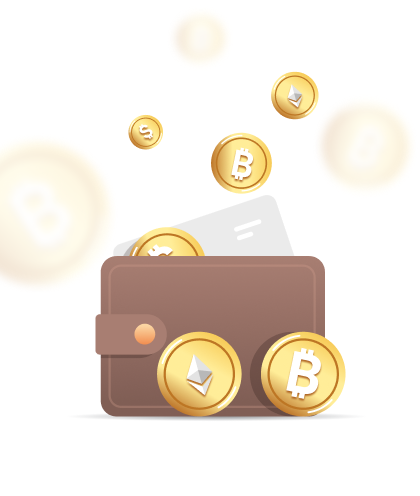
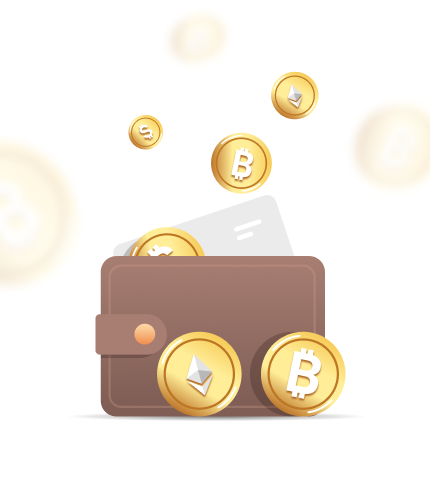
fix ui onboarding

diff --git a/app/components/Views/OnboardingCarousel/index.js b/app/components/Views/OnboardingCarousel/index.js
@@ -42,7 +42,6 @@ const IMAGE_2_RATIO = 222 / 239;
 const IMAGE_1_RATIO = 285 / 203;
 const DEVICE_WIDTH = Dimensions.get('window').width;
 
-
 const IMG_PADDING = Device.isIphoneX() ? 100 : Device.isIphone5S() ? 180 : 220;
 
 const createStyles = (colors) =>
@@ -81,7 +80,8 @@ const createStyles = (colors) =>
 
     // eslint-disable-next-line react-native/no-unused-styles
     carouselImage: {
-      width: DEVICE_WIDTH > 400 ? '85%' : '97%',
+      // width: DEVICE_WIDTH > 400 ? '85%' : '100%',
+      width: '100%',
       height: '75%',
     },
     // eslint-disable-next-line react-native/no-unused-styles
@@ -115,17 +115,17 @@ const createStyles = (colors) =>
       flexDirection: 'row',
       alignSelf: 'center',
       marginBottom: 30,
-      paddingTop: 10
+      paddingTop: 10,
     },
     tab: {
       marginHorizontal: 32,
-      paddingBottom : 20
+      paddingBottom: 20,
     },
-    wrapperBg : {
-      top : DEVICE_WIDTH < 400 ? -50 : 0,
-    }
+    wrapperBg: {
+      top: DEVICE_WIDTH < 400 ? -50 : 0,
+    },
   });
-  console.log(Dimensions.get('window').width);
+console.log(Dimensions.get('window').width);
 
 const carousel_images = [
   imgWalletOnboarding,
@@ -272,7 +272,7 @@ class OnboardingCarousel extends PureComponent {
         </View>
         <ScrollView contentContainerStyle={styles.scroll}>
           <View
-           style={styles.wrapperCarousel}
+            style={styles.wrapperCarousel}
             {...generateTestId(Platform, WELCOME_SCREEN_CAROUSEL_CONTAINER_ID)}
           >
             <ScrollableTabView
@@ -283,7 +283,7 @@ class OnboardingCarousel extends PureComponent {
               {['one', 'two', 'three', 'four'].map((value, index) => {
                 const key = index + 1;
                 return (
-                  <View key={key} style={{flexGrow: 1}}>
+                  <View key={key} style={{ flexGrow: 1 }}>
                     <View style={styles.carouselImageWrapper}>
                       <Image
                         source={carousel_images[index]}
@@ -301,7 +301,11 @@ class OnboardingCarousel extends PureComponent {
                         <Text style={styles.title}>
                           {strings(`onboarding_carousel.title${key}`)}
                         </Text>
-                        <Text style={styles.subtitle} numberOfLines={3} ellipsizeMode="middle">
+                        <Text
+                          style={styles.subtitle}
+                          numberOfLines={3}
+                          ellipsizeMode="middle"
+                        >
                           {strings(`onboarding_carousel.subtitle${key}`)}
                         </Text>
                       </View>
@@ -310,20 +314,19 @@ class OnboardingCarousel extends PureComponent {
                 );
               })}
             </ScrollableTabView>
-          
           </View>
         </ScrollView>
         <View style={styles.progessContainer}>
-              {[1, 2, 3, 4].map((i) => (
-                <View
-                  key={i}
-                  style={[
-                    styles.circle,
-                    currentTab === i ? styles.solidCircle : {},
-                  ]}
-                />
-              ))}
-            </View>
+          {[1, 2, 3, 4].map((i) => (
+            <View
+              key={i}
+              style={[
+                styles.circle,
+                currentTab === i ? styles.solidCircle : {},
+              ]}
+            />
+          ))}
+        </View>
         <View style={styles.ctas}>
           <View style={styles.ctaWrapper}>
             <StyledButton
